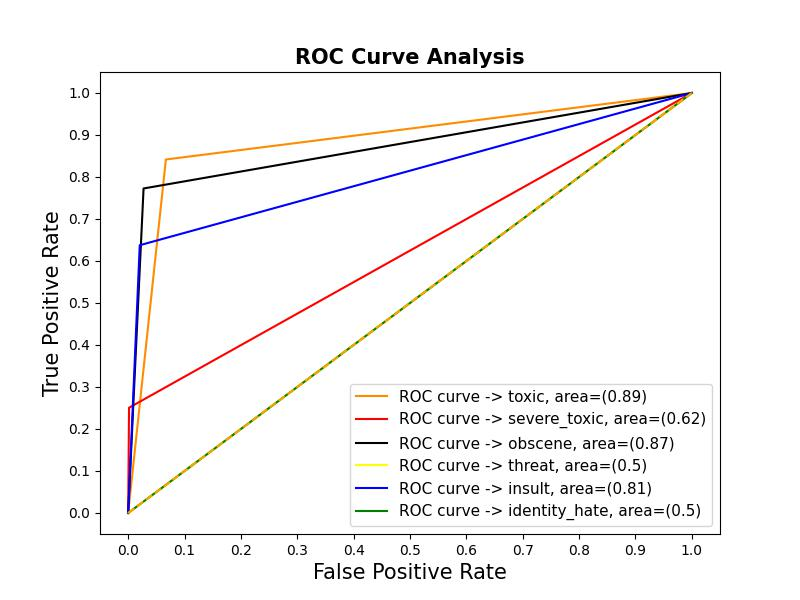
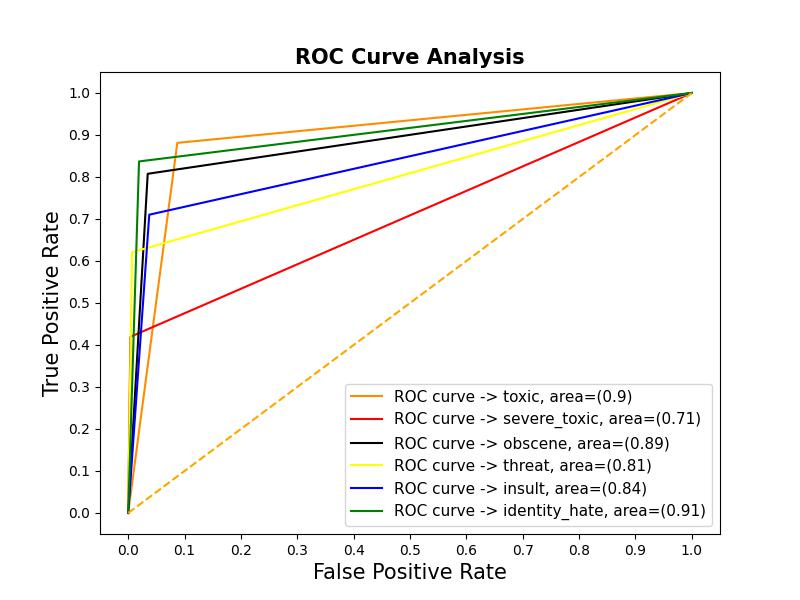
augmented data with paraphrase generation

diff --git a/src/config.py b/src/config.py
@@ -1,5 +1,5 @@
 EMBEDDING_FILE_LOCATION = 'models/wiki-news-300d-1M.vec'
-TRAINING_DATA_LOCATION = 'data/train.csv'
+TRAINING_DATA_LOCATION = 'data/updated_train.csv'
 TEST_DATA_COMMENTS = 'data/test_set.csv'
 MODEL_LOCATION = 'models/toxicity_classifier.h5'
 TOKENIZER_LOCATION = 'models/tokenizer.pkl'
